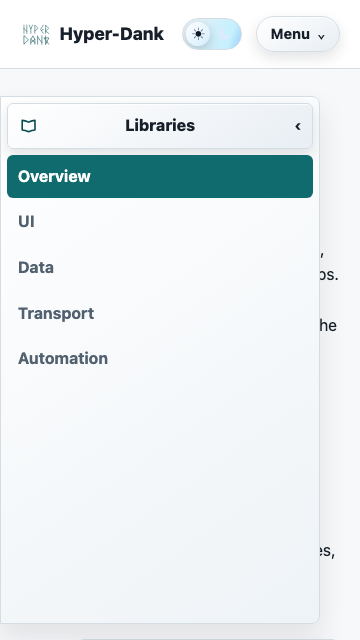
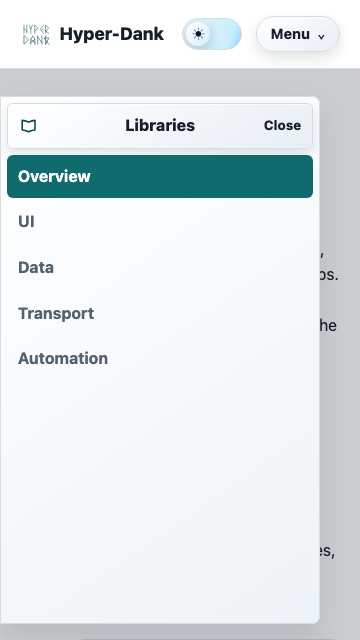
docs: refine mobile drawer review evidence

Changed region(s): [[0.0, 0.0938, 1.0, 1.0], [0.7333, 0.1875, 0.8556, 0.2188]]

diff --git a/site/assets/site.css b/site/assets/site.css
@@ -25,6 +25,7 @@
   --control-depth-shadow-hover:
     0 9px 18px rgb(23 32 42 / 16%), inset 0 1px 0 rgb(255 255 255 / 82%);
   --input-depth-shadow: inset 0 1px 0 rgb(255 255 255 / 74%), 0 6px 14px rgb(23 32 42 / 7%);
+  --drawer-backdrop-shadow: 0 0 0 100vmax rgb(23 32 42 / 20%);
 }
 
 :root[data-theme="dark"] {
@@ -51,6 +52,7 @@
   --control-depth-shadow: 0 7px 16px rgb(0 0 0 / 26%), inset 0 1px 0 rgb(255 255 255 / 10%);
   --control-depth-shadow-hover: 0 10px 20px rgb(0 0 0 / 32%), inset 0 1px 0 rgb(255 255 255 / 14%);
   --input-depth-shadow: inset 0 1px 0 rgb(255 255 255 / 9%), 0 6px 14px rgb(0 0 0 / 18%);
+  --drawer-backdrop-shadow: 0 0 0 100vmax rgb(0 0 0 / 38%);
 }
 
 * {
@@ -835,6 +837,7 @@ pre code {
   .docs-side-nav[open],
   .library-side-nav[open] {
     align-self: start;
+    box-shadow: var(--surface-depth-shadow), var(--drawer-backdrop-shadow);
     max-width: calc(100vw - 1rem);
     width: min(20rem, calc(100vw - 1rem));
   }
@@ -860,7 +863,10 @@ pre code {
 
   .docs-side-nav[open] summary::after,
   .library-side-nav[open] summary::after {
-    content: "‹";
+    content: "Close";
+    font-size: 0.82rem;
+    font-weight: 800;
+    justify-self: end;
   }
 
   .docs-side-nav__icon {

diff --git a/apps/walking-pace/scripts/lib/public-docs.test.ts b/apps/walking-pace/scripts/lib/public-docs.test.ts
@@ -226,8 +226,12 @@ describe("public docs", () => {
     expect(css).toContain("padding-left: 4.75rem;");
     expect(css).toContain("width: 3.75rem;");
     expect(css).toContain("width: min(20rem, calc(100vw - 1rem));");
+    expect(css).toContain("--drawer-backdrop-shadow");
+    expect(css).toContain(
+      "box-shadow: var(--surface-depth-shadow), var(--drawer-backdrop-shadow);",
+    );
     expect(css).toContain('content: "›";');
-    expect(css).toContain('content: "‹";');
+    expect(css).toContain('content: "Close";');
     expect(css).toContain("grid-template-columns: 1fr;");
     expect(css).toContain("grid-template-columns: 2rem minmax(0, 1fr) 2rem;");
     expect(css).toContain(".docs-side-nav__icon");
